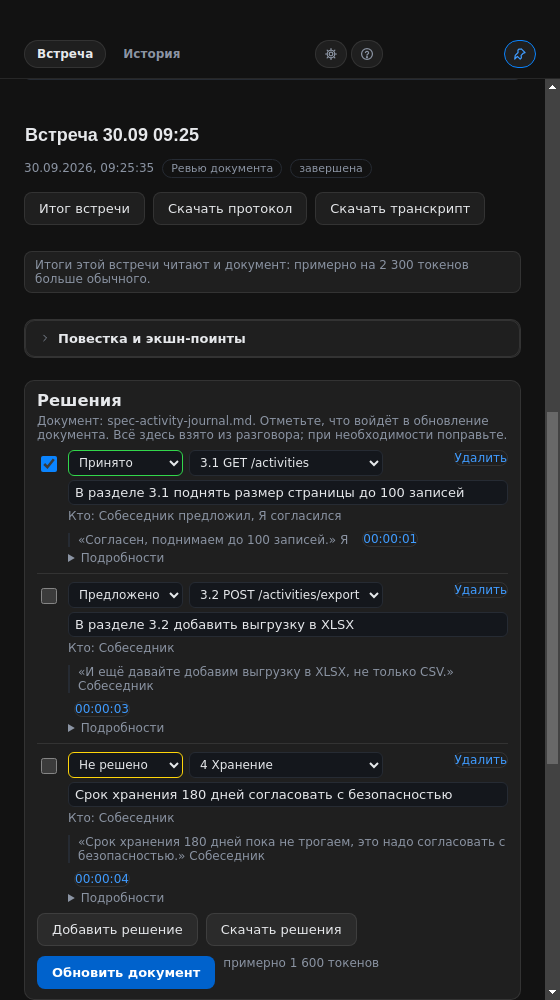
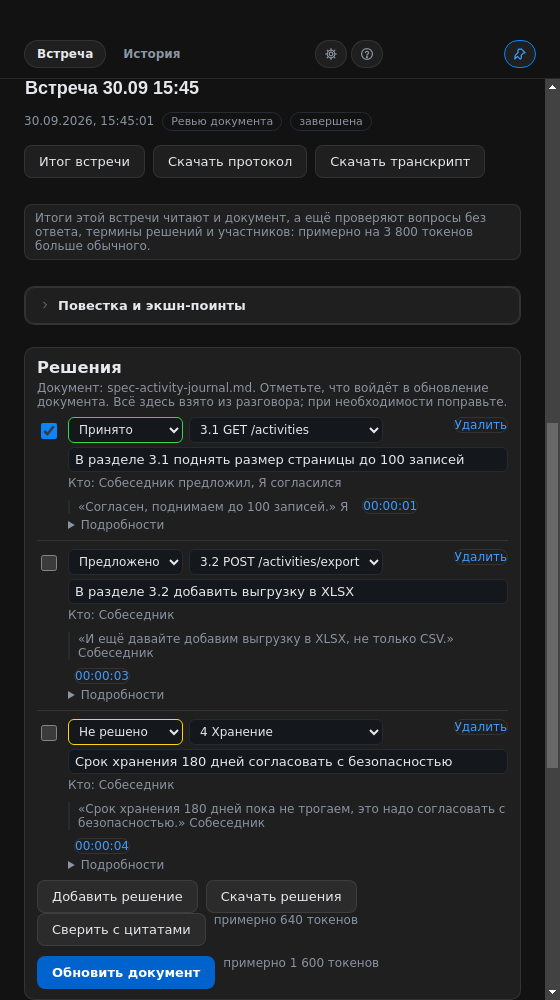
Review fidelity E2E on the synthetic parcel call, screenshots, READMEs and changelog
Claude-Session: https://claude.ai/code/session_01QDHapjvdAGXyqQEyRNNg8d

diff --git a/e2e/review-fidelity.spec.ts b/e2e/review-fidelity.spec.ts
@@ -1,0 +1,124 @@
+import { expect, test } from "@playwright/test";
+import fs from "node:fs";
+import path from "node:path";
+import { fileURLToPath } from "node:url";
+import { launch, setTheme, shot, startMock, useOwnKey } from "./harness";
+
+// Honest review summaries (CLOUD_TASK_6) on a synthetic "parcel" call: a map
+// decision that does not say what its key is, a question asked three times and
+// deferred, a role that contradicts the briefing, doubled lines and an invented
+// credit line. The fake recognizer and the mock model are scripted; the checks
+// are about what the app parses, shows and marks, not about model quality.
+
+const FIXTURES = path.join(path.dirname(fileURLToPath(import.meta.url)), "..", "test", "fixtures");
+const PARCEL = JSON.parse(fs.readFileSync(path.join(FIXTURES, "parcel-call.json"), "utf8")) as { briefing: string; lines: unknown[] };
+const SPEC = fs.readFileSync(path.join(FIXTURES, "spec-parcel.md"), "utf8");
+
+test("review fidelity: open questions with a count, unpinned terms marked, the briefing contradiction listed, one line per utterance", async () => {
+  const mock = await startMock();
+  const run = await launch(mock, { readyModel: true, env: { FAKE_SIDECAR_SCRIPT: "parcel", AVALET_TEST_ECHO_HOLD_MS: "0" } });
+  const page = run.main;
+  try {
+    await page.setViewportSize({ width: 560, height: 1000 });
+    await page.getByTestId("wizard").waitFor();
+    await useOwnKey(page, mock);
+    await page.evaluate(
+      async ({ briefing, spec }) => {
+        const api = window.avalet!;
+        await api.settings.setOnboardingDone(true);
+        await api.settings.setGuideSeen(true);
+        await api.settings.setMeetingMode("review");
+        await api.settings.setContext(briefing);
+        await api.settings.setArtifact({ name: "spec-parcel.md", text: spec });
+      },
+      { briefing: PARCEL.briefing, spec: SPEC },
+    );
+    await page.reload();
+    await page.getByTestId("simple-home").waitFor();
+
+    await page.getByTestId("start").click();
+    await expect(page.getByTestId("session-status")).toContainText(/Слушаю|Listening/);
+    // Live, both copies of the doubled lines and the credit line get through.
+    await expect(page.locator(".segment")).toHaveCount(PARCEL.lines.length, { timeout: 40_000 });
+    await page.getByTestId("pause").click();
+    await page.getByTestId("end").click();
+
+    // After End: one line per utterance, the rest kept and counted.
+    await expect(page.locator(".segment")).toHaveCount(PARCEL.lines.length - 3);
+    const hidden = page.getByTestId("hidden-lines");
+    await expect(hidden).toContainText(/3/);
+    await expect(page.locator(".meeting-transcript")).not.toContainText("Редактор субтитров");
+    await page.getByTestId("toggle-hidden").click();
+    await expect(page.locator(".segment")).toHaveCount(PARCEL.lines.length);
+    await expect(page.locator(".segment.filtered")).toHaveCount(3);
+    await hidden.scrollIntoViewIfNeeded();
+    await shot(page, "review-fidelity-hidden-lines-dark");
+    await page.getByTestId("toggle-hidden").click();
+    await expect(page.locator(".segment")).toHaveCount(PARCEL.lines.length - 3);
+
+    // Before the summary: the review rules' extra cost, in plain words.
+    await expect(page.getByTestId("summary-cost")).toContainText(/вопросы без ответа|unanswered questions/);
+    await page.getByRole("button", { name: /Итог встречи|Meeting summary/ }).click();
+    const summary = page.locator(".summary-text");
+    await expect(summary).toContainText("Новые вопросы и риски", { timeout: 20_000 });
+    await expect(summary).toContainText(/Вопрос без ответа: что является ключом мапы.*\(задан 3 раз\)/);
+    await expect(summary).toContainText("Вопрос без ответа: сохраняется ли обратная совместимость");
+    await expect(summary).toContainText("Расхождение с контекстом: в контексте разработчик и владелец продукта один человек");
+    // Participants: roles from the call; the name nobody said is not there.
+    const participants = page.getByTestId("participants");
+    await expect(participants).toContainText(/по ходу встречи|from the call/);
+    await expect(participants).toContainText(/владелец продукта/);
+    await expect(participants).not.toContainText("Кирилл");
+    await summary.scrollIntoViewIfNeeded();
+    await shot(page, "review-fidelity-summary-dark");
+
+    const panel = page.getByTestId("decisions-panel");
+    const rows = panel.getByTestId("decision");
+    await expect(rows).toHaveCount(3);
+    // The map decision: accepted, but its terms are not pinned, so it starts unchecked and is marked.
+    await expect(rows.nth(0)).toHaveAttribute("data-status", "accepted");
+    await expect(rows.nth(0).getByTestId("decision-include")).not.toBeChecked();
+    await expect(rows.nth(0).getByTestId("decision-terms-missing")).toBeVisible();
+    // The question asked three times: open, with its count and "не уточнено".
+    await expect(rows.nth(1)).toHaveAttribute("data-status", "open");
+    await expect(rows.nth(1).getByTestId("decision-asked")).toContainText("3");
+    await expect(rows.nth(1).getByTestId("decision-terms-unclear")).toBeVisible();
+    await expect(rows.nth(1).getByTestId("decision-include")).not.toBeChecked();
+    await expect(rows.nth(2)).toHaveAttribute("data-status", "open");
+    await panel.scrollIntoViewIfNeeded();
+    await shot(page, "review-fidelity-decisions-dark");
+
+    // The analyst pins the terms by hand; the mark goes, the choice to include stays theirs.
+    await rows.nth(0).getByTestId("decision-terms").fill("ключ - значение типа вложения (box, envelope); значение - массив количеств");
+    await rows.nth(0).getByTestId("decision-terms").blur();
+    await expect(rows.nth(0).getByTestId("decision-terms-missing")).toHaveCount(0);
+    await rows.nth(0).getByTestId("decision-include").check();
+
+    // The optional check: cost first, then a confirmation; nothing is sent before Send.
+    const check = page.getByTestId("decisions-check");
+    await expect(check).toContainText(/токенов|tokens/);
+    await page.getByTestId("decisions-check-button").click();
+    await expect(page.getByTestId("decisions-check-confirm")).toContainText(/только понизить|only lower/);
+    await page.getByTestId("decisions-check-send").click();
+    await expect(page.getByTestId("decisions-check-result")).toContainText(/Сверено: 1|Checked: 1/, { timeout: 20_000 });
+    // Edited by hand: the check only adds its note, the analyst's row stays as it is.
+    await expect(rows.nth(0).getByTestId("decision-check")).toHaveAttribute("data-verdict", "ok");
+    await expect(rows.nth(0).getByTestId("decision-include")).toBeChecked();
+
+    // The transcript export: one line per utterance and the count of the rest.
+    await page.getByRole("button", { name: /Скачать транскрипт|Download transcript/ }).click();
+    await expect.poll(() => fs.readdirSync(run.dirs.exports).filter((f) => f.endsWith("transcript.txt")).length).toBe(1);
+    const transcript = fs.readFileSync(path.join(run.dirs.exports, fs.readdirSync(run.dirs.exports).find((f) => f.endsWith("transcript.txt"))!), "utf8");
+    expect(transcript).not.toContain("Редактор субтитров");
+    expect(transcript.match(/сделать мапу/g)?.length).toBe(1);
+    expect(transcript).toMatch(/Строк убрано как шум распознавания: 3|Lines left out as recognition noise: 3/);
+
+    await setTheme(page, "light");
+    await panel.scrollIntoViewIfNeeded();
+    await shot(page, "review-fidelity-decisions-light");
+    await setTheme(page, "dark");
+  } finally {
+    await run.close();
+    await mock.close();
+  }
+});

diff --git a/README.ru.md b/README.ru.md
@@ -25,6 +25,7 @@
 - **Ручной вопрос, быстрые кнопки, скриншот.** Спросите что угодно в любой момент, нажмите "Итог" / "Риски?" / "Уточняющий вопрос" / "Объяснить" или отправьте скриншот экрана для приоритетного разбора. Модели с картинками (Claude, OpenAI, DeepSeek) получают изображение, это быстрый путь; по желанию в настройках можно добавить текст, распознанный на вашем Mac, для точных имён, чисел и кода (примерно на секунду медленнее). Модели без картинок (локальные) всегда видят экран как распознанный текст. Если провайдер отверг картинку, Avalet повторит запрос с текстом.
 - **Режимы встречи.** Сбор требований, груминг и оценка, демо и приёмка, ревью документа, интервью или свободный: каждый смещает, на что ассистент обращает внимание. Четыре из них ещё и ведут в оверлее свой список по ходу встречи, собранный из подсказок без лишних запросов к модели: требования и риски, предложенные срезы и отдельные задачи, отклонения и что попросить показать, замечания, предложения и решения. Одна кнопка копирует его.
 - **Ревью документа помогает обновить спецификацию.** До звонка загрузите спецификацию, которую обсуждаете (файл `.md` или `.txt` либо вставленный текст, до 200 000 символов). Во время звонка ассистент видит только её оглавление, поэтому подсказки не дорожают; после звонка в итогах будут решения, которые действительно приняли: раздел, старая и новая формулировка и слова, которые прозвучали. Вы проверяете и поправляете их, нажимаете «Обновить документ», просматриваете каждую правку рядом с исходным текстом, применяете нужные и скачиваете обновлённый `.md`. Модель только предлагает правки в точных местах, применяет их приложение, исходный текст сохраняется. Перед каждым дополнительным расходом (документ в итогах и в обновлении) приложение показывает примерное число токенов.
+- **Итоги ревью не прячут то, что осталось открытым.** Вопрос, который задали и не получили ответа или передали кому-то ещё, попадает в риски с тем, кто спросил и сколько раз, а расхождение с вашим контекстом показывается, а не решается молча; решение, которое меняет структуру данных, говорит словами участников, что в нём ключ и что значение, либо пишет «не уточнено» и остаётся неотмеченным.
 - **Транскрипт и итог встречи.** Каждый звонок сохраняется как встреча с транскриптом по репликам, со временем и говорящим. Одна кнопка пишет итог в формате аналитика: решения, открытые вопросы, требования, риски, задачи. Экспорт в Markdown или копирование чистым текстом. В ревью документа можно ещё скачать обновлённый документ и файл решений (см. ниже).
 - **Пауза / Продолжить / Завершить / история.** Кнопки с подписями в оверлее и в главном окне: Пауза замораживает подсказки, ничего не теряя, старые блоки листаются, продолжить можно мгновенно; Завершить закрывает встречу и прячет оверлей. История хранится на диске.
 - **Видно, сколько потрачено токенов.** Счётчики берутся из ответов самих провайдеров, за месяц и за встречу, в Настройках; в оверлее маленькое число за текущую встречу. Для фоновой работы можно поставить модель дешевле. Когда токены Avalet заканчиваются, ничего не ломается: расшифровка продолжает писаться, а приложение предлагает докупить токены или подключить свой ключ.
@@ -108,6 +109,7 @@ npm run dev
 - Статус: Принято | Предложено | Отклонено | Не решено
 - Было: <старая формулировка или «нет»>
 - Стало: <новая формулировка или «нет»>
+- Термины: <что здесь ключ, значение и одна запись, «не уточнено: ...» или «нет»>
 - Кто: <как прозвучало на звонке>
 - Цитата: «<точные слова>» (<кто>, 00:12:04)
 
@@ -115,7 +117,7 @@ npm run dev
 - <задача> (<ответственный>, <срок>)
 ```
 
-В файл попадают только отмеченные решения; заголовки на языке интерфейса (английский: Decisions, Date, Document, Section, Status, Was, Becomes, Who, Quote, Action points).
+В файл попадают только отмеченные решения; заголовки на языке интерфейса (английский: Decisions, Date, Document, Section, Status, Was, Becomes, Terms, Who, Quote, Action points).
 
 ## Экраны
 
@@ -129,6 +131,7 @@ npm run dev
 
 - **Вариант "Avalet без ключей" пока не запущен.** Клиентская часть готова и проверена на тестовом сервере; сервер оплаты, его ключ подписи и платёжный шлюз ещё не развёрнуты. До тех пор приложение показывает этот вариант как "Скоро", не обращается к серверу оплаты и работает с вашим ключом.
 - **Живой чек-лист ещё не проверен на реальных встречах.** В простом режиме он выключен, в расширенном включён.
+- **Очистка транскрипта осторожная.** Задвоенная строка узнаётся тем же сравнением текста, что и в живом фильтре, поэтому сильно искажённое эхо останется; если системный звук несёт и ваш собственный голос, ваша реплика может остаться под собеседником. Список титров короткий и не претендует на полноту. Скрытые строки открываются одним нажатием в транскрипте.
 - **Решения и правки в ревью документа ещё не проверены на настоящей модели.** Весь путь проверен сквозными тестами с моделью-заглушкой; насколько хорошо настоящая модель находит решения и точные места, покажут реальные звонки. Итоги с документом и обновление отправляют весь документ, поэтому для очень длинного нужен провайдер с большим контекстом.
 - **Захват системного звука бывает хрупким.** Используется [`electron-audio-loopback`](https://github.com/alectrocute/electron-audio-loopback) (MIT); нужна macOS 13.2+. Если звук собеседника не идёт, появится баннер с кнопкой **Переподключить**. Только микрофон работает всегда.
 - **Неподписанная сборка.** См. шаги установки выше. Подпись и автообновление в планах.

diff --git a/README.md b/README.md
@@ -25,6 +25,7 @@ Local-first: audio never leaves your Mac and transcription runs on-device. For t
 - **Manual ask, quick actions, screenshot.** Type a question any time, tap "Summarize" / "Risks?" / "Ask a question" / "Explain this", or send a screenshot of your screen for a priority read. Models that see images (Claude, OpenAI, DeepSeek) get the picture, which is the fast path; an optional setting adds the text recognized on your Mac for exact names, numbers and code (about a second slower). Models that do not (local ones) always get the screen as recognized text. If a provider refuses the image, Avalet retries with the text.
 - **Meeting modes.** Requirements gathering, grooming and estimation, demo and acceptance, document review, interview, or free: each shifts what the assistant pays attention to. Four of them also keep a running list in the overlay, collected from the suggestions with no extra model call: candidate requirements and risks, proposed slices and separate tasks, deviations and what to ask to see, remarks, proposals and decisions. One click copies it.
 - **Document review keeps your specification in sync.** Load the specification you are discussing (a `.md` or `.txt` file, or pasted, up to 200,000 characters) before the call. During the call the assistant sees only its table of contents, so hints stay cheap; after the call the summary returns the decisions that were actually taken, each with its section, old and new wording and the words that were said. You check and correct them, press "Update the document", look through every proposed change next to the original, apply the ones you want and download the updated `.md`. The model only proposes changes to exact places; the app applies them and keeps the original. Before each extra spend (the document's share of the summary and of the update) the app shows a rough token figure.
+- **A review summary does not hide what is still open.** A question asked and not answered, or passed on to someone else, is listed as a risk with who asked and how many times, and a contradiction with your briefing is shown rather than silently resolved; a decision that changes a data structure says what its key and value are in the speakers' words, or says "not clarified" and stays unchecked.
 - **Transcript and meeting summary.** Every call is saved as a meeting with a timestamped, speaker-tagged transcript. One button writes the summary in an analyst's format: decisions, open questions, requirements, risks, tasks. Export to Markdown or copy as plain text. In document review you can also download the updated document and a decisions file (see below).
 - **Pause / Resume / End / history.** Labelled buttons in the overlay and the main window: Pause freezes live output without losing anything, page through earlier blocks, resume instantly; End closes the meeting and hides the overlay. History is kept on disk.
 - **Token usage you can see.** Counts come from the providers' own responses, per month and per meeting, in Settings; the overlay shows a small per-meeting number. Background work can use a cheaper model. When Avalet tokens run out, nothing breaks: the transcript keeps recording and the app offers more tokens or your own key.
@@ -108,6 +109,7 @@ Document: <file name>
 - Status: Accepted | Proposed | Rejected | Open
 - Was: <old wording or "none">
 - Becomes: <new wording or "none">
+- Terms: <what the key, value and one entry are, "not clarified: ...", or "none">
 - Who: <as said in the call>
 - Quote: «<exact words>» (<speaker>, 00:12:04)
 
@@ -115,7 +117,7 @@ Document: <file name>
 - <task> (<owner>, <due>)
 ```
 
-Only checked decisions are listed; headings follow the interface language (Russian: Решения, Дата, Документ, Раздел, Статус, Было, Стало, Кто, Цитата, Поручения).
+Only checked decisions are listed; headings follow the interface language (Russian: Решения, Дата, Документ, Раздел, Статус, Было, Стало, Термины, Кто, Цитата, Поручения).
 
 ## Screens
 
@@ -129,6 +131,7 @@ All screens, both themes: [`docs/screens/`](docs/screens/README.md). They are re
 
 - **The "Avalet without keys" option is not live yet.** The client side is done and tested against a mock server; the billing server, its signing key and the payment gateway are not deployed. Until then the app shows the option as "Coming soon", never contacts a billing server, and works with your own key.
 - **The live checklist is not yet verified on real meetings.** It is off in the Simple level and on in Advanced.
+- **Transcript cleaning is conservative.** A doubled line is recognized by the same text comparison the live filter uses, so an echo garbled beyond recognition stays; if your system audio also carries your own voice, your line may be kept under the other side. The credit-line list is short and best-effort. Hidden lines are one click away in the transcript.
 - **Document review's decisions and changes are not yet verified on a real model.** The flow is tested end to end with a mock model; how well a real model finds decisions and exact places has to be judged on real calls. The summary with a document and the update send the whole document, so a very long one needs a provider with a large context window.
 - **System audio capture can be fragile.** Uses [`electron-audio-loopback`](https://github.com/alectrocute/electron-audio-loopback) (MIT); needs macOS 13.2+. If the other side's audio doesn't come through, a banner shows up with a **Reconnect** button. Mic-only always works as a fallback.
 - **Unsigned build.** See the install steps above. Code signing and auto-update are planned.

diff --git a/CHANGELOG.md b/CHANGELOG.md
@@ -10,6 +10,10 @@
 
 - **The live checklist keeps what was actually said.** Each agenda item and action point can carry the exact words from the call (checked against the transcript, never a paraphrase), who said them and when, next to the short verdict. In the overlay a click on an item shows them; the main window shows them with a button that jumps to that moment in the transcript; the protocol export quotes them under the item.
 
+- **Review summaries keep what is still open.** A question asked and not answered, answered evasively or passed on ("I will ask ...") is listed under new questions and risks with who asked and how many times, never as "discussed"; "none" there only when nothing is open. A decision that shapes data states its terms (what the key, the value, one entry is) in the speakers' words or says "not clarified"; such a decision is marked and starts unchecked, and the update skips it rather than guess. A contradiction between the briefing and the call is listed with both sides. The participants line is filled from the call only (names that were said, roles, people mentioned but not in the call). Optional "Check against the quotes" re-reads the accepted decisions with their quotes (cost shown first) and can only lower one. The review summary's extra cost is shown before Summarize for every review meeting.
+- **Cleaner saved transcript.** When a meeting ends, a line the microphone caught again from the speakers and the recognizer's invented credit lines in quiet stretches are marked and left out of the transcript view, the exports and the summary (kept in the meeting record, "Show hidden lines" in the transcript, a count in the export). Lines the recognizer was unsure of are tagged for the summary and cannot back an accepted decision. Quotes are moved onto the kept lines.
+- The other modes' summaries list questions left without an answer under "Open questions" the same way.
+
 ### Changed
 - **One speech model, no choice.** The app uses faster-whisper small only; the three-way picker is gone from Settings and the wizard, replaced by one row with the model's status, progress, Cancel, Continue and Delete. A stored choice of medium or turbo falls back to small.
 - **The speech model downloads early.** It starts in the background as soon as a new user leaves the first setup screen (or the how-it-works guide opens), so it is usually ready by the first call. Nothing starts when it is already on disk, running or failed, and only once per launch. Start still waits for a ready model.

diff --git a/docs/screens/README.md b/docs/screens/README.md
@@ -28,6 +28,10 @@ Made by the E2E suite (`npm run e2e:xvfb`) on Linux under Xvfb: real app, fake c
 - [`review-update-confirm-dark.png`](review-update-confirm-dark.png) (review: the cost confirmation before "Update the document")
 - [`review-patch-preview-dark.png`](review-patch-preview-dark.png) (review: each change next to the original, with checkboxes)
 - [`review-updated-dark.png`](review-updated-dark.png) (review: the result with downloads and undo)
+- [`review-fidelity-summary-dark.png`](review-fidelity-summary-dark.png) (review, synthetic parcel call: unanswered questions with a count, the briefing contradiction, participants from the call)
+- [`review-fidelity-decisions-dark.png`](review-fidelity-decisions-dark.png) (review: a decision with unpinned terms, an open question asked three times, "Check against the quotes")
+- [`review-fidelity-decisions-light.png`](review-fidelity-decisions-light.png)
+- [`review-fidelity-hidden-lines-dark.png`](review-fidelity-hidden-lines-dark.png) (transcript: doubled and noise lines shown on request, struck through with the reason)
 - [`simple-error-model-missing-dark.png`](simple-error-model-missing-dark.png)
 - [`simple-home-empty-dark.png`](simple-home-empty-dark.png)
 - [`simple-home-ready-dark.png`](simple-home-ready-dark.png)
